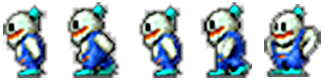
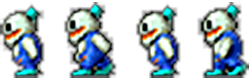
Index

diff --git a/js/helpers.js b/js/helpers.js
@@ -24,7 +24,7 @@ function drawPlatforms(){
 }
 
 
-/* -----Player motion-----*/ //this part was move to draft for testing
+/* -----Player motion-----*/ 
 
 function playerMovement() { 
    
@@ -42,12 +42,14 @@ function playerMovement() {
       if(player.x  + player.width > c.canvas.width){ player.xs = 0} else { player.xs += 1; }
       player.isWalkingTo = "right";
       player.action = 1
+      if(player.mode != "start mode"){player.xs *= 2}
     }
     if(keys[37]){
       keys[37]=false;
       if(player.x < 0){ player.xs = 0} else { player.xs -= 1;}  
       player.isWalkingTo = "left";
-      player.cation = 2  
+      player.cation = 2 
+      if(player.mode != "start mode"){player.xs *= 2}
     }
   
     if(keys[83]){
@@ -79,16 +81,15 @@ function playerMovement() {
     }
 }
 
-   
-
+  
 function collisionCheck(char, plat){
 
   // this is how the player would appear, if removing widht/2 the player appears in the middle of the lines
   
-  var vectorX = (char.x + (char.width/2)) - (plat.x + (plat.width/2)); // middle pints x 
-  var vectorY = (char.y + (char.height/2)) - (plat.y + (plat.height/2)); // midle pints y
+  var vectorX = (char.x + (char.width/2)) - (plat.x + (plat.width/2)); // player center x with platform center x borders
+  var vectorY = (char.y + (char.height/2)) - (plat.y + (plat.height/2)); // player center y with platform center y borders
   
-  var halfWidths = (char.width/2) + (plat.width/2); 
+  var halfWidths = (char.width/2) + (plat.width/2); // middle center
   var halfHeights = (char.height/2) + (plat.height/2);
   
   var collisionDirection = null;
@@ -130,6 +131,7 @@ function createBullet(){
 }
 
 function drawBullet() { 
+  //bullets.forEach( bullet =>{
   if(player.mode == "start mode" || player.mode == "red mode"){
   
           if(player.isWalkingTo == "right"){
@@ -170,25 +172,23 @@ function drawBullet() {
               if(player.isWalkingTo == "right"){
   
                   bullets.forEach(bullet =>{
-                  bullet.x += bullet.xs;
-                  bullet.y += bullet.ys;
+                  bullet.x += bullet.xs * 3.5;
+                  bullet.y += bullet.ys * 1.5;
                   bullet.ys += bullet.gravity;
                   bullet.draw(); // bullet 2 range "large"
               })   
               } else if (player.isWalkingTo == "left") {
   
                   bullets.forEach(bullet =>{
-                  bullet.xs = bullet.xs * 2,
-                  bullet.ys = bullet.ys * 2,
-                  bullet.x -= bullet.xs;
-                  bullet.y += bullet.ys;
+                  bullet.x -= bullet.xs * 3.5;
+                  bullet.y += bullet.ys * 1.5; 
                   bullet.ys += bullet.gravity;
                   bullet.draw();// bullet 2 range // large
               })
           }
       }
-  }
-  
+  //});
+}
 
 
 /* -----Enemies-----*/ 

diff --git a/js/classes.js b/js/classes.js
@@ -23,7 +23,7 @@ function Player(){
     this.y = 485 //make sure to appears on the floor
     this.spriteWidth = 325
     this.spriteheight = 80
-    this.sprCols = 5
+    this.sprCols = 4
     this.sprRows = 1
     this.width = this.spriteWidth / this.sprCols
     this.height = this.spriteheight / this.sprRows
@@ -37,7 +37,7 @@ function Player(){
     this.grounded = false
     this.isWalkingTo = ""
     this.action; 
-    this.mode = "start mode"
+    this.mode = "green mode"
     
     this.img = new Image()
     this.img.src = "./img/Snow_bro/walk_and_run/snowbro_walk_right2.png"
@@ -88,7 +88,7 @@ function Bullet(){
 
 
   this.draw = function(){
-        c.fillStyle = "red";
+        c.fillStyle = "purple";
         c.fillRect(this.x, this.y, 12, 12);
     }  
 

diff --git a/js/main.js b/js/main.js
@@ -7,9 +7,8 @@ window.onload = function(){
         boardgame.draw() // 2nd call - goes directly to Boardgame class/constructor
         drawPlatforms(); // 3rd - from helpers, drawLevel
         player.drawImage(); // goes to this.action 
-        playerMovement()
         drawBullet(); // goes to drawBullet which contains the bullet direction properties;
-        
+        playerMovement()
      }
     update(); // this is the first function it runs
 

diff --git a/js/declarations.js b/js/declarations.js
@@ -19,7 +19,7 @@ var friction = 0.8
 
 var bullets = [];
 var keys = [];
-console.log(keys);
+
 /* -----PLATFORMS LEVEL ONE-----*/ 
 
 /////////////////////////////////////////////////////////////////////////////////////////////////////////////////////////////////////////
